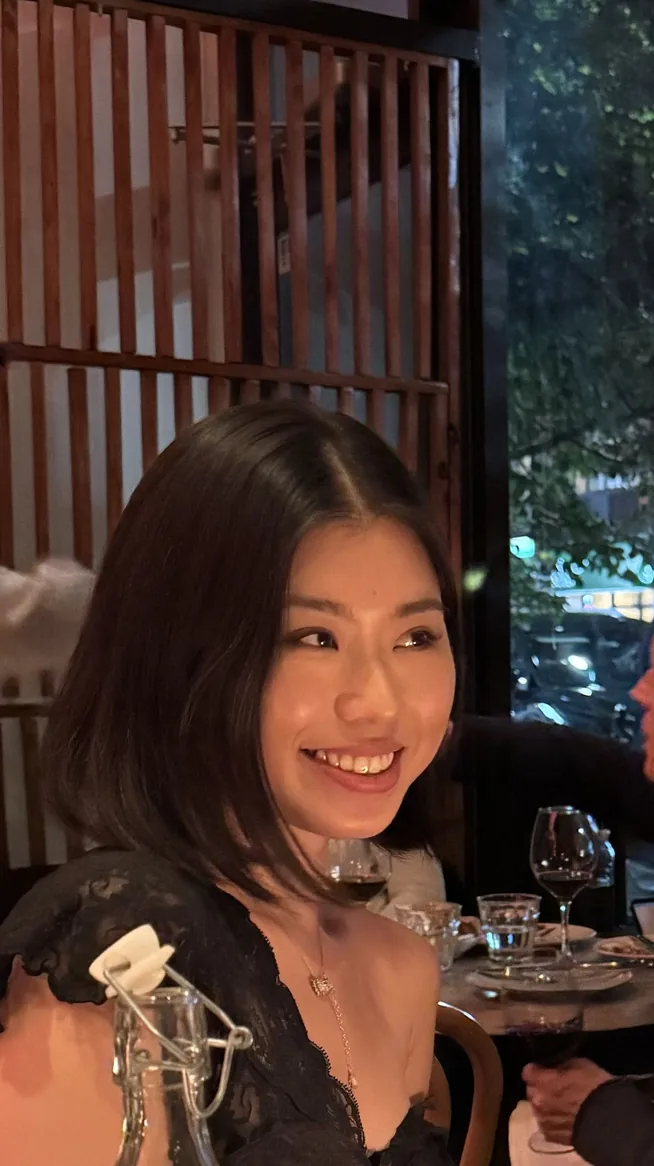
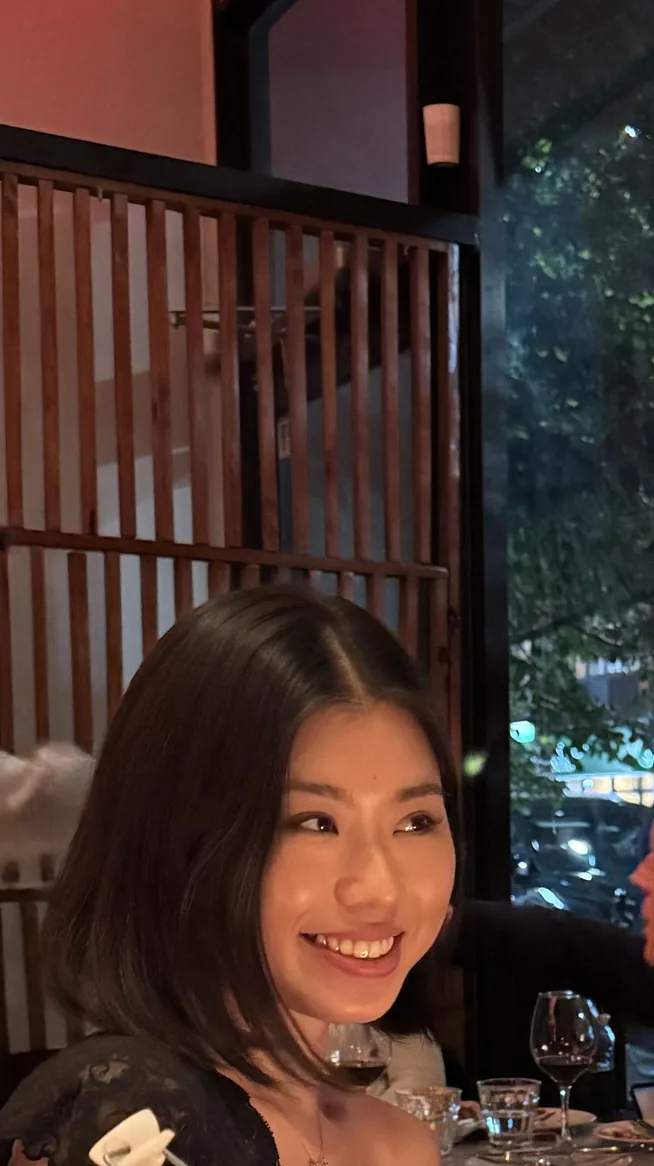
feat(about): re-crop the "As a designer" portrait

diff --git a/docs/worklog.md b/docs/worklog.md
@@ -2,6 +2,12 @@
 
 Newest first. One entry per milestone.
 
+## 2026-11-06 — About portrait crop
+
+- The "As a designer" portrait now frames higher in the original photo, matching Amy's
+  reference crop: same size on the page, with more of the room above her
+  (`scripts/image-manifest.mjs`, `assets/images/about/portrait.webp`).
+
 ## 2026-11-04 — Footer orchid motion blur
 
 - The footer orchid now has a sideways camera-motion blur: an SVG `feGaussianBlur`
